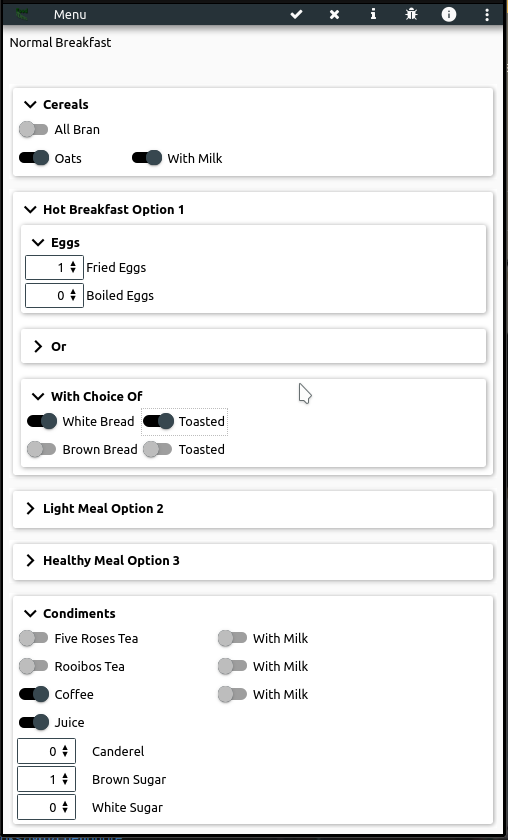
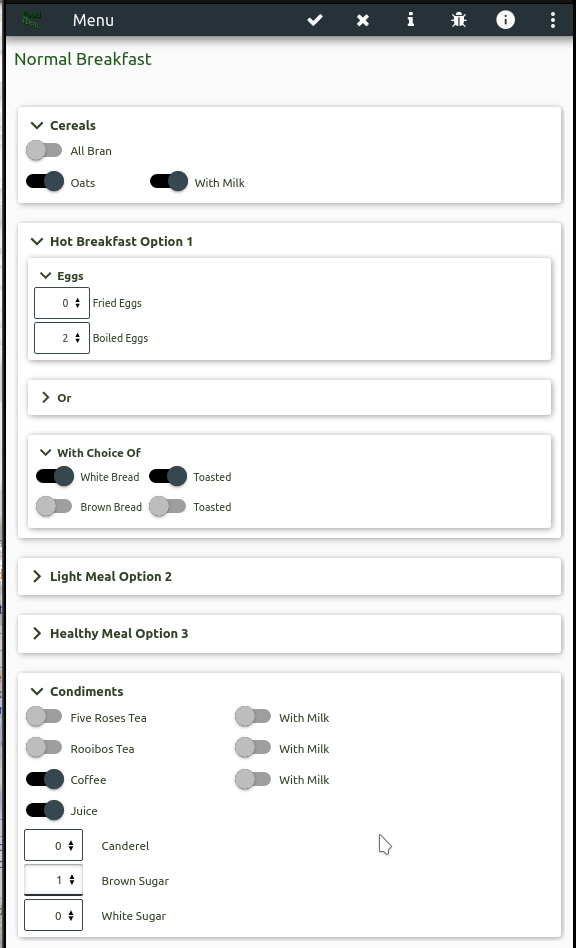
styles and combined login / choose menu form

Changed region(s): [[0.0, 0.0, 1.0, 1.0], [0.4134, 0.7429, 0.6201, 0.8357], [0.6496, 0.8667, 0.6791, 0.8976]]

diff --git a/pics/webcomponents/iconMenu/iconMenu.js b/pics/webcomponents/iconMenu/iconMenu.js
@@ -35,7 +35,7 @@ onICHostReady = function(version) {
 		val1 = eval("(" + data + ")");
 		var menu="";
 	//	alert(val1.menu[1].text);
-		document.getElementById("debug").innerHTML="gicapi:"+data;
+	//	document.getElementById("debug").innerHTML="gicapi:"+data;
 		for (i in val1.menu) {
 		//	alert(i);
 			menuitemdiv = "<div id=\"menuitem\" onclick=\"menuClicked('"+val1.menu[i].action+"')\">";

diff --git a/pics/webcomponents/iconMenu/iconMenu.html b/pics/webcomponents/iconMenu/iconMenu.html
@@ -5,14 +5,8 @@
 	<link rel="stylesheet" href="iconMenu.css" type="text/css">
 </head>
 <body>
-<div id="logo">
-<img src="logo.png">
-</div>
 <br>
 <div id="menu">
-</div>
-<div id="debug">
-debug
 </div>
 </body>
 </html>

diff --git a/README.md b/README.md
@@ -7,7 +7,7 @@ There are two versions of the program:
 * dynFoodMenu2 - a single .4gl example of just the form generation and input
 
 ## Running on the Android Phone using Native Rendering
-![ss0n](https://github.com/neilm-fourjs/dynFoodMenu/raw/master/screenshots/ss0nat.png "SS0NAT")
+![ss0n](https://github.com/neilm-fourjs/dynFoodMenu/raw/master/screenshots/ss0nat.png "SS0NAT") Bugs logged!
 ![ss1n](https://github.com/neilm-fourjs/dynFoodMenu/raw/master/screenshots/ss1nat.png "SS1NAT")
 ![ss2n](https://github.com/neilm-fourjs/dynFoodMenu/raw/master/screenshots/ss2nat.png "SS2NAT")
 ![ss3n](https://github.com/neilm-fourjs/dynFoodMenu/raw/master/screenshots/ss3nat.png "SS3NAT")
@@ -24,4 +24,6 @@ There are two versions of the program:
 ![ss2d](https://github.com/neilm-fourjs/dynFoodMenu/raw/master/screenshots/ss2gdc.png "SS2D")
 
 ## Running in the GBC ( Chrome )
+![ss0b](https://github.com/neilm-fourjs/dynFoodMenu/raw/master/screenshots/ss1gbc.png "SS0B")
+![ss1b](https://github.com/neilm-fourjs/dynFoodMenu/raw/master/screenshots/ss2gbc.png "SS1B")
 ![ss2b](https://github.com/neilm-fourjs/dynFoodMenu/raw/master/screenshots/ss2gbc.png "SS2B")
